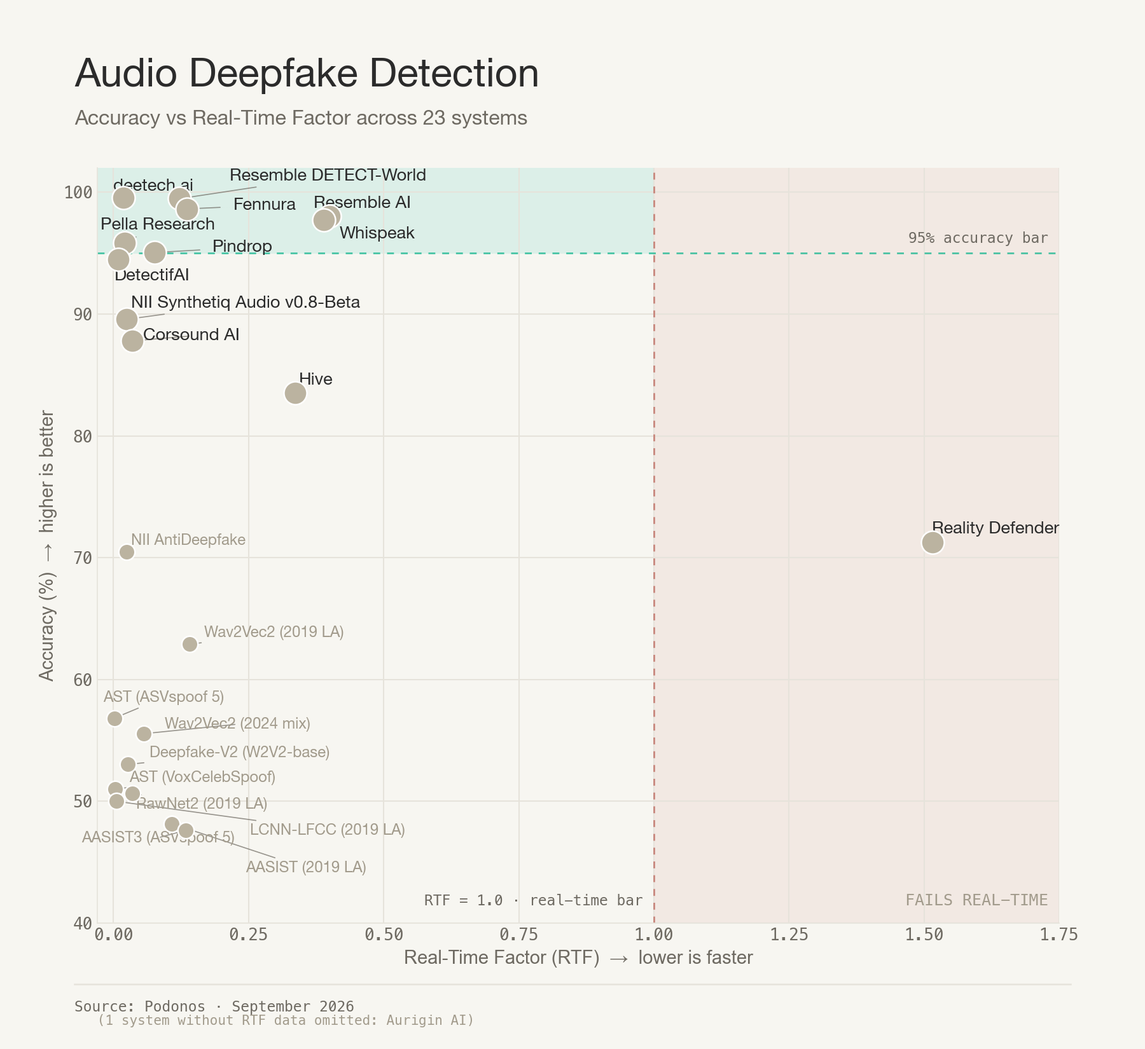
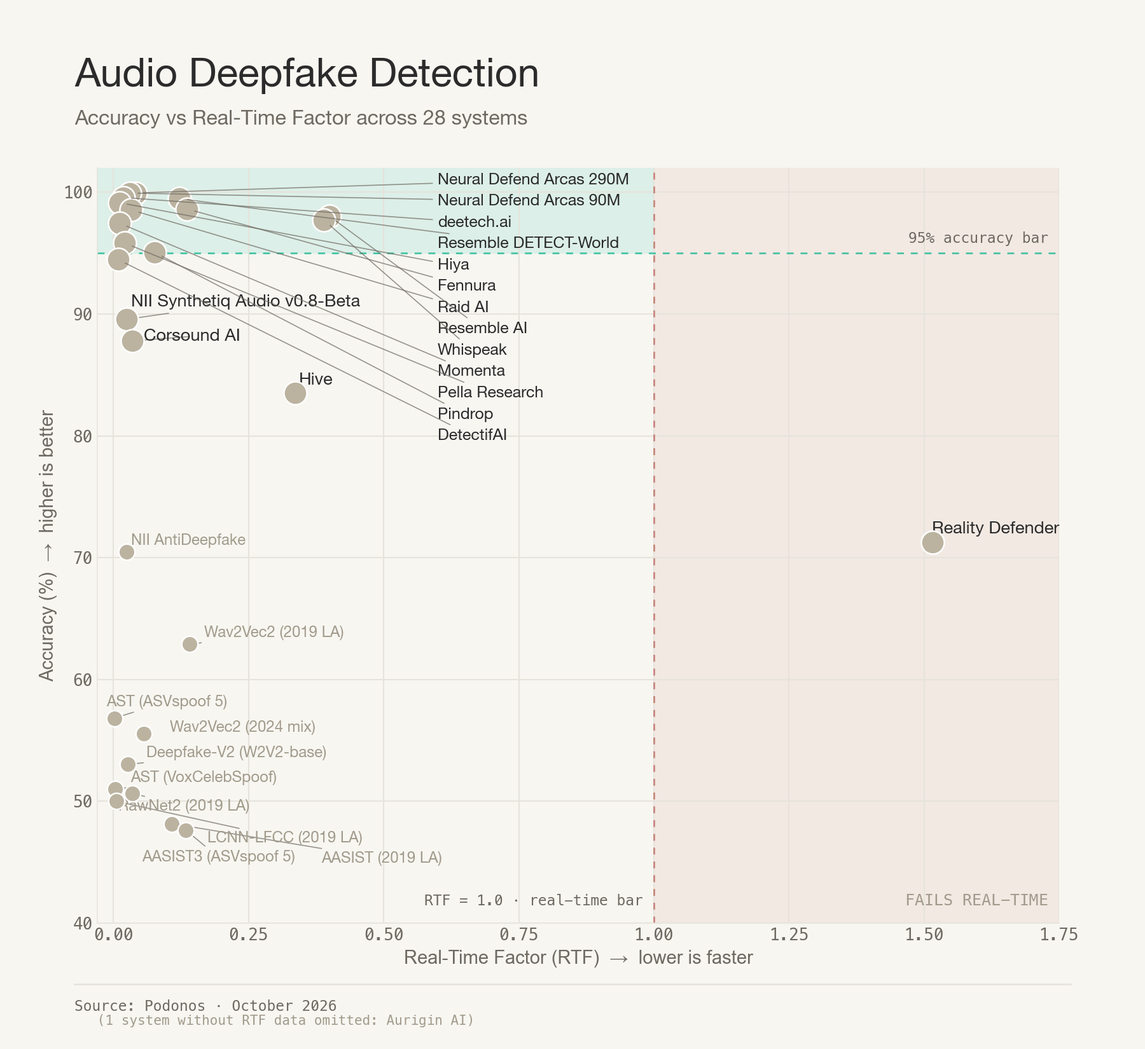
Add Neural Defend, Hiya, Raid AI and Momenta; state the submission rules
Five studio-track rows, each published only after the vendor confirmed in
writing: Neural Defend Arcas 290M and Arcas 90M (99.93% each, ranks 1 and
2), Hiya (99.14%, 2.3% of files rejected), Raid AI (98.54%) and Momenta
(97.46%; studio only, its wideband result stays private). The board grows
from 23 to 28 systems, and the counts, superlatives and row references in
the text are updated to match.

The submission rules are now written down: the board updates monthly,
CSVs are due by the 20th, filename, label and latency_ms are required on
every row, one model per team per month, and listing is opt-in (each
vendor sees its result first and may decline). Submissions go to
dfd-submission@podonos.com. The telephony leaderboards are planned for
the November 2026 update.

The accuracy-vs-RTF chart now lists its crowded fast, accurate corner in
a fixed label column, as the error-profile chart already does.

Verified: 28 rows against benchmark_summary.csv, 0 mismatches; leak
guard clean (8 withheld systems, none in the public tree); no em-dashes
left in README.md or DATASET.md.

Changed region(s): [[0.0933, 0.1545, 0.56, 0.4327], [0.0622, 0.6491, 0.3733, 0.8345], [0.2178, 0.9582, 0.2489, 0.9891]]

diff --git a/scripts/compute_metrics.py b/scripts/compute_metrics.py
@@ -17,8 +17,9 @@ ALL_MODELS = [
     "aasist_asvspoof5", "ast_asvspoof5", "ast_voxcelebspoof",
     "wav2vec2_garystafford", "melodymachine_v2",
     # Commercial APIs and commercially licensed systems
-    "deetech", "resemble_detect_world", "fennura", "aurigin_v2", "resemble",
-    "whispeak", "pella_research", "pindrop", "detectifai", "nii_synthetiq",
+    "neuraldefend_arcas_290m", "neuraldefend_arcas_90m", "deetech",
+    "resemble_detect_world", "hiya", "fennura", "raid_ai", "aurigin_v2", "resemble",
+    "whispeak", "momenta", "pella_research", "pindrop", "detectifai", "nii_synthetiq",
     "corsound", "hive", "reality_defender",
     # Open weights, submitted by its authors
     "nii_antideepfake",

diff --git a/README.md b/README.md
@@ -4,41 +4,48 @@
 
 A neutral, public benchmark for evaluating audio deepfake detection systems on a diverse, format-rich dataset.
 
-> **Why this benchmark?** Self-reported deepfake detection scores are often unreliable due to overfitting on public test sets and selective reporting. This project hosts a fixed evaluation set with **private gold-standard labels** held by Podonos, scoring submissions in a verifiable, apples-to-apples manner.
+> **Why this benchmark?** Self-reported deepfake detection scores are often unreliable due to overfitting on public test sets. This project hosts a fixed evaluation set with **private gold-standard labels** held by Podonos, scoring submissions in a verifiable, apples-to-apples manner.
 
 ---
 
 ## Leaderboard
 
+Last updated: **October 2026**. Updated monthly.
+
 ![Leaderboard: Accuracy](images/leaderboard_accuracy.png)
 
-**23 systems** published: 13 commercial entries (**bold**) from 12 vendors, since Resemble appears twice, and 11 systems whose weights you can download (Pella Research is counted in both), sorted by accuracy. **Pella Research** is a commercial provider that also open-sourced its model (MIT), so it appears among the commercial entries while its weights stay downloadable. **NII** appears twice for two separate systems: Synthetiq Audio is licensed commercially, AntiDeepfake is an open-weights research release.
+**28 systems** published: 18 commercial entries (**bold**) from 16 vendors, since Resemble and Neural Defend each appear twice, and 11 systems whose weights you can download (Pella Research is counted in both), sorted by accuracy. **Pella Research** is a commercial provider that also open-sourced its model (MIT), so it appears among the commercial entries while its weights stay downloadable. **NII** appears twice for two separate systems: Synthetiq Audio is licensed commercially, AntiDeepfake is an open-weights research release.
 
 | # | System | N | Rej% | Acc% | F1 | FPR% | FNR% | Lat(ms) | RTF |
 |---|--------|---|------|------|-----|------|------|---------|-----|
-| 1 | **[deetech.ai](https://deetech.ai)** | 4524 | 0.0% | **99.56%** | 0.996 | 0.4% | 0.4% | 50 | 0.019 |
-| 2 | **[Resemble DETECT-World](https://www.resemble.ai)** | 4524 | 0.0% | 99.47% | 0.995 | 0.7% | 0.4% | 399 | 0.12 |
-| 3 | **[Fennura](https://fennura.ai)** | 4524 | 0.0% | 98.63% | 0.986 | 1.2% | 1.5% | 553 | 0.14 |
-| 4 | **[Aurigin AI](https://aurigin.ai)** § | 4524 | 0.0% | 98.21% | 0.982 | 2.4% | 1.1% | n/a | n/a |
-| 5 | **[Resemble AI](https://www.resemble.ai)** ‡ | 4524 | 0.0% | 98.05% | 0.981 | 2.5% | 1.4% | 1,164 | 0.40 |
-| 6 | **[Whispeak](https://whispeak.io)** | 4524 | 0.0% | 97.70% | 0.977 | 2.9% | 1.7% | 1,052 | 0.39 |
-| 7 | **[Pella Research](https://pellaresearch.com)** † | 4524 | 0.0% | 95.82% | 0.959 | 5.5% | 2.8% | 57 | 0.021 |
-| 8 | **[Pindrop](https://www.pindrop.com)** | 4524 | 0.0% | 95.05% | 0.951 | 6.2% | 3.7% | 282 | 0.076 |
-| 9 | **[DetectifAI](https://detectif.ai)** | 4524 | 0.0% | 94.47% | 0.946 | 8.4% | 2.7% | 24 | 0.0084 |
-| 10 | **[NII Synthetiq Audio v0.8-Beta](https://yamagishilab.jp)** | 4524 | 0.0% | 89.57% | 0.892 | 6.6% | 14.2% | 91 | 0.024 |
-| 11 | **[Corsound AI](https://www.corsound.ai)** | 3875 | 14.3% | 87.79% | 0.865 | 1.0% | 23.1% | 180 | 0.035 |
-| 12 | **[Hive](https://thehive.ai)** ‡ | 4524 | 0.0% | 83.53% | 0.808 | 2.4% | 30.5% | 881 | 0.34 |
-| 13 | **[Reality Defender](https://www.realitydefender.com)** ‡ | 3745 | 17.2% | 71.27% | 0.770 | 53.7% | 3.6% | 5,718 | 1.52 |
-| 14 | [NII AntiDeepfake](https://huggingface.co/nii-yamagishilab/xls-r-2b-anti-deepfake) † | 4524 | 0.0% | 70.47% | 0.584 | 0.4% | 58.6% | 91 | 0.024 |
-| 15 | [Wav2Vec2 (2019 LA)](https://huggingface.co/Gustking/wav2vec2-large-xlsr-deepfake-audio-classification) | 4524 | 0.0% | 62.89% | 0.514 | 13.4% | 60.8% | 622 | 0.14 |
-| 16 | [AST (ASVspoof 5)](https://huggingface.co/MattyB95/AST-ASVspoof5-Synthetic-Voice-Detection) | 4524 | 0.0% | 56.83% | 0.657 | 69.0% | 17.4% | 5 | 0.0017 |
-| 17 | [Wav2Vec2 (2024 mix)](https://huggingface.co/garystafford/wav2vec2-deepfake-voice-detector) | 4524 | 0.0% | 55.55% | 0.499 | 33.1% | 55.8% | 219 | 0.056 |
-| 18 | [Deepfake-V2 (W2V2-base)](https://huggingface.co/MelodyMachine/Deepfake-audio-detection-V2) | 4524 | 0.0% | 53.03% | 0.162 | 3.1% | 90.9% | 94 | 0.027 |
-| 19 | [AST (VoxCelebSpoof)](https://huggingface.co/MattyB95/AST-VoxCelebSpoof-Synthetic-Voice-Detection) | 4524 | 0.0% | 50.99% | 0.048 | 0.5% | 97.5% | 8 | 0.0030 |
-| 20 | [RawNet2 (2019 LA)](https://huggingface.co/MattyB95/pre_trained_DF_RawNet2) | 4524 | 0.0% | 50.66% | 0.430 | 35.9% | 62.7% | 94 | 0.035 |
-| 21 | [LCNN-LFCC (2019 LA)](https://huggingface.co/MattyB95/pre_trained_DF_LFCC-LCNN) | 4524 | 0.0% | 50.00% | 0.667 | 100.0% | 0.0% | 23 | 0.0056 |
-| 22 | [AASIST (2019 LA)](https://github.com/clovaai/aasist) | 4524 | 0.0% | 48.17% | 0.486 | 52.6% | 51.1% | 322 | 0.11 |
-| 23 | [AASIST3 (ASVspoof 5)](https://huggingface.co/lab260/AASIST3) | 4524 | 0.0% | 47.63% | 0.029 | 6.3% | 98.4% | 363 | 0.13 |
+| 1 | **[Neural Defend Arcas 290M](https://neuraldefend.com)** | 4524 | 0.0% | **99.93%** | 0.999 | 0.1% | 0.0% | 118 | 0.041 |
+| 2 | **[Neural Defend Arcas 90M](https://neuraldefend.com)** | 4524 | 0.0% | **99.93%** | 0.999 | 0.1% | 0.0% | 89 | 0.030 |
+| 3 | **[deetech.ai](https://deetech.ai)** | 4524 | 0.0% | 99.56% | 0.996 | 0.4% | 0.4% | 50 | 0.019 |
+| 4 | **[Resemble DETECT-World](https://www.resemble.ai)** | 4524 | 0.0% | 99.47% | 0.995 | 0.7% | 0.4% | 399 | 0.12 |
+| 5 | **[Hiya](https://www.hiya.com)** | 4420 | 2.3% | 99.14% | 0.991 | 0.5% | 1.2% | 31 | 0.011 |
+| 6 | **[Fennura](https://fennura.ai)** | 4524 | 0.0% | 98.63% | 0.986 | 1.2% | 1.5% | 553 | 0.14 |
+| 7 | **[Raid AI](https://raidxai.com)** | 4524 | 0.0% | 98.54% | 0.985 | 1.9% | 1.0% | 93 | 0.033 |
+| 8 | **[Aurigin AI](https://aurigin.ai)** § | 4524 | 0.0% | 98.21% | 0.982 | 2.4% | 1.1% | n/a | n/a |
+| 9 | **[Resemble AI](https://www.resemble.ai)** ‡ | 4524 | 0.0% | 98.05% | 0.981 | 2.5% | 1.4% | 1,164 | 0.40 |
+| 10 | **[Whispeak](https://whispeak.io)** | 4524 | 0.0% | 97.70% | 0.977 | 2.9% | 1.7% | 1,052 | 0.39 |
+| 11 | **[Momenta](https://momenta.network)** | 4524 | 0.0% | 97.46% | 0.975 | 2.3% | 2.8% | 42 | 0.011 |
+| 12 | **[Pella Research](https://pellaresearch.com)** † | 4524 | 0.0% | 95.82% | 0.959 | 5.5% | 2.8% | 57 | 0.021 |
+| 13 | **[Pindrop](https://www.pindrop.com)** | 4524 | 0.0% | 95.05% | 0.951 | 6.2% | 3.7% | 282 | 0.076 |
+| 14 | **[DetectifAI](https://detectif.ai)** | 4524 | 0.0% | 94.47% | 0.946 | 8.4% | 2.7% | 24 | 0.0084 |
+| 15 | **[NII Synthetiq Audio v0.8-Beta](https://yamagishilab.jp)** | 4524 | 0.0% | 89.57% | 0.892 | 6.6% | 14.2% | 91 | 0.024 |
+| 16 | **[Corsound AI](https://www.corsound.ai)** | 3875 | 14.3% | 87.79% | 0.865 | 1.0% | 23.1% | 180 | 0.035 |
+| 17 | **[Hive](https://thehive.ai)** ‡ | 4524 | 0.0% | 83.53% | 0.808 | 2.4% | 30.5% | 881 | 0.34 |
+| 18 | **[Reality Defender](https://www.realitydefender.com)** ‡ | 3745 | 17.2% | 71.27% | 0.770 | 53.7% | 3.6% | 5,718 | 1.52 |
+| 19 | [NII AntiDeepfake](https://huggingface.co/nii-yamagishilab/xls-r-2b-anti-deepfake) † | 4524 | 0.0% | 70.47% | 0.584 | 0.4% | 58.6% | 91 | 0.024 |
+| 20 | [Wav2Vec2 (2019 LA)](https://huggingface.co/Gustking/wav2vec2-large-xlsr-deepfake-audio-classification) | 4524 | 0.0% | 62.89% | 0.514 | 13.4% | 60.8% | 622 | 0.14 |
+| 21 | [AST (ASVspoof 5)](https://huggingface.co/MattyB95/AST-ASVspoof5-Synthetic-Voice-Detection) | 4524 | 0.0% | 56.83% | 0.657 | 69.0% | 17.4% | 5 | 0.0017 |
+| 22 | [Wav2Vec2 (2024 mix)](https://huggingface.co/garystafford/wav2vec2-deepfake-voice-detector) | 4524 | 0.0% | 55.55% | 0.499 | 33.1% | 55.8% | 219 | 0.056 |
+| 23 | [Deepfake-V2 (W2V2-base)](https://huggingface.co/MelodyMachine/Deepfake-audio-detection-V2) | 4524 | 0.0% | 53.03% | 0.162 | 3.1% | 90.9% | 94 | 0.027 |
+| 24 | [AST (VoxCelebSpoof)](https://huggingface.co/MattyB95/AST-VoxCelebSpoof-Synthetic-Voice-Detection) | 4524 | 0.0% | 50.99% | 0.048 | 0.5% | 97.5% | 8 | 0.0030 |
+| 25 | [RawNet2 (2019 LA)](https://huggingface.co/MattyB95/pre_trained_DF_RawNet2) | 4524 | 0.0% | 50.66% | 0.430 | 35.9% | 62.7% | 94 | 0.035 |
+| 26 | [LCNN-LFCC (2019 LA)](https://huggingface.co/MattyB95/pre_trained_DF_LFCC-LCNN) | 4524 | 0.0% | 50.00% | 0.667 | 100.0% | 0.0% | 23 | 0.0056 |
+| 27 | [AASIST (2019 LA)](https://github.com/clovaai/aasist) | 4524 | 0.0% | 48.17% | 0.486 | 52.6% | 51.1% | 322 | 0.11 |
+| 28 | [AASIST3 (ASVspoof 5)](https://huggingface.co/lab260/AASIST3) | 4524 | 0.0% | 47.63% | 0.029 | 6.3% | 98.4% | 363 | 0.13 |
 
 **Legend**:
 - **N**: number of evaluated audio files
@@ -55,6 +62,8 @@ A neutral, public benchmark for evaluating audio deepfake detection systems on a
 > **What is and isn't verified.** Podonos holds the gold labels privately and computes Acc%, F1, FPR% and FNR% itself, so **no vendor scores its own row** and the arithmetic behind every row is ours. What we cannot check is how a submitted `predictions.csv` was produced: except for the ‡ rows, we did not run the system, so the labels in the file are taken on trust.
 >
 > **The speed columns are not.** They mix three regimes: ‡ rows were run by Podonos against the vendor's API and include network round-trip, other commercial rows are the vendor's own figures on the vendor's own hardware, and the open-source baselines were run locally by Podonos. Treat Lat(ms) and RTF as indicative, and don't read small differences as meaningful.
+>
+> **Listing is opt-in.** Each vendor sees its result before it is published and may decline, and we respect that. A system missing from this board may have been scored and withheld.
 
 ### Open-weights leaderboard
 
@@ -80,13 +89,13 @@ The 95.82 % figure was produced by the public `pellav2` checkpoint, confirmed by
 
 ### Observations
 
-**Commercial systems.** Eight clear 95 %. Pick by which error costs you more.
+**Commercial systems.** Thirteen clear 95 %. Pick by which error costs you more.
 
-- **The top is tight.** deetech.ai, DETECT-World and Fennura are separated by under a point and all three hold both error rates under 1.6 %. deetech.ai is the most even across containers at 99.5–99.7 % on every format, with DETECT-World just behind at 99.2–99.7 %.
+- **The top is tight.** Neural Defend's Arcas 290M and 90M lead at 99.93 %, three errors each in 4,524 files. deetech.ai and DETECT-World follow within half a point.
 - **Fennura is submitted as a CPU-only, on-device detector**, with no GPU at inference. That is the vendor's description; Podonos scored the labels but did not run the system and cannot attest to the hardware.
 - **Conservative by design:** Corsound and Hive rarely false-flag but miss 23.1 % and 30.5 % of the fakes they score. Both are the shape you want when a false accusation is the expensive error.
-- **Reality Defender false-flags 53.7 % of the real audio it accepted** — 1,009 of 1,878 clips. It declined a further 384 real clips, so that is 44.6 % of all the real audio in the set. Its RTF of 1.52 is the only measured value above 1.0.
-- **Coverage is not uniform.** Corsound declines 14.3 % of files and Reality Defender 17.2 %, mostly clips under ~1.5 s, so those two rows are scored on a different subset from the rest and are not directly comparable to a full-coverage row.
+- **Reality Defender false-flags 53.7 % of the real audio it accepted** (1,009 of 1,878 clips). It declined a further 384 real clips, so that is 44.6 % of all the real audio in the set. Its RTF of 1.52 is the only measured value above 1.0.
+- **Coverage is not uniform.** Corsound declines 14.3 % of files, Reality Defender 17.2 % and Hiya 2.3 %, mostly clips under ~1.5 s, so those rows are scored on a different subset from the rest and are not directly comparable to a full-coverage row.
 - **NII Synthetiq Audio** is licensed commercially by the Yamagishi Lab at NII rather than sold as a public API; its latency was measured by the lab on an H100.
 
 Two caveats change how a row should be read:
@@ -98,7 +107,7 @@ Two caveats change how a row should be read:
 
 **Stale training data is the problem, not open weights.** The two open-weights models trained on current synthesis both clear that band: [pellav2](#open-weights-leaderboard) and [NII AntiDeepfake](#open-weights-leaderboard). AntiDeepfake pairs one of the lowest false-positive rates on the board, 0.4 %, with an FNR of 58.6 %: it almost never false-flags real audio and misses close to 6 fakes in 10. That reads as a deliberate operating point rather than a failure to train.
 
-**Latency / RTF.** Mixed provenance, not measured on common hardware, so treat small differences as noise. Of the 22 systems with a measured RTF, all run faster than real time except Reality Defender; Aurigin AI submitted no timing data, so it has none. Several open-source models are faster still, AST at ~5 ms, but they run locally with no network hop, and at near-random accuracy that speed buys little.
+**Latency / RTF.** Mixed provenance, not measured on common hardware, so treat small differences as noise. Of the 27 systems with a measured RTF, all run faster than real time except Reality Defender; Aurigin AI submitted no timing data, so it has none. Several open-source models are faster still, AST at ~5 ms, but they run locally with no network hop, and at near-random accuracy that speed buys little.
 
 ### Error Profile
 
@@ -118,7 +127,7 @@ Two caveats change how a row should be read:
   - [VCTK](https://datashare.ed.ac.uk/handle/10283/3443): 110 English speakers, multiple accents
   - [LJ Speech](https://keithito.com/LJ-Speech-Dataset/): single-speaker, ~24 hours of public-domain audiobook recordings
   - [LibriTTS train-clean-360](https://www.openslr.org/60/): ~191 hours, 904 speakers (the "360" names the LibriSpeech split it was rebuilt from, not its duration)
-- **Synthetic audio**: ~25 TTS / voice-cloning systems, both commercial APIs and open-weights models run locally, including [ElevenLabs](https://elevenlabs.io/) (commercial API), [Chatterbox](https://github.com/resemble-ai/chatterbox) and [F5-TTS](https://github.com/SWivid/F5-TTS) (open weights), and others. Chatterbox is released by Resemble AI, which also appears on the leaderboard at rows 2 and 5.
+- **Synthetic audio**: ~25 TTS / voice-cloning systems, both commercial APIs and open-weights models run locally, including [ElevenLabs](https://elevenlabs.io/) (commercial API), [Chatterbox](https://github.com/resemble-ai/chatterbox) and [F5-TTS](https://github.com/SWivid/F5-TTS) (open weights), and others. Chatterbox is released by Resemble AI, which also appears on the leaderboard at rows 4 and 9.
 - **Quality verification**: All synthetic audio is round-trip transcribed with [OpenAI Whisper](https://github.com/openai/whisper) to ensure the TTS system synthesized the intended utterance, before format conversion.
 
 See [`DATASET.md`](DATASET.md) for full construction details.
@@ -163,7 +172,7 @@ In both tracks the PESQ ordering is the expected one (higher bitrate and newer c
 
 ### Submit your results
 
-Run your detector over a track's folder (filenames are `0.wav`, `1.wav`, ...) and submit a `predictions.csv` as described in [Submission Format](#submission-format) below. Each track is scored against its own private gold standard. The telephony leaderboards open as submissions arrive; the studio leaderboard above is already live.
+Run your detector over a track's folder (filenames are `0.wav`, `1.wav`, ...) and submit a `predictions.csv` as described in [Submission Format](#submission-format) below. Each track is scored against its own private gold standard. The telephony leaderboards are planned for the November 2026 update; the studio leaderboard above is already live.
 
 ---
 
@@ -221,7 +230,7 @@ python scripts/compute_metrics.py
 
 Outputs the per-model breakdown including per-format accuracy and the leaderboard.
 
-> **Note**: Computing metrics requires the gold-standard labels CSV. The labels are kept private to maintain the benchmark's integrity. Email your `predictions.csv` to **hello@podonos.com** for scoring.
+> **Note**: Computing metrics requires the gold-standard labels CSV. The labels are kept private to maintain the benchmark's integrity. Email your `predictions.csv` to **dfd-submission@podonos.com** for scoring.
 
 ---
 
@@ -229,23 +238,28 @@ Outputs the per-model breakdown including per-format accuracy and the leaderboar
 
 ### Commercial APIs
 
-These 13 entries come from 12 vendors, since Resemble appears twice. All offer a hosted detection API or a commercial licence; **Pella Research** additionally publishes its weights under MIT, and the **NII** Yamagishi Lab separately publishes the open-weights AntiDeepfake model, listed under [Open-source baselines](#open-source-baselines).
+These 18 entries come from 16 vendors, since Resemble and Neural Defend each appear twice. All offer a hosted detection API or a commercial licence; **Pella Research** additionally publishes its weights under MIT, and the **NII** Yamagishi Lab separately publishes the open-weights AntiDeepfake model, listed under [Open-source baselines](#open-source-baselines).
 
 | Row | Vendor | Product / Model | Docs / Product page |
 |----:|--------|-----------------|---------------------|
-| 1 | [**deetech.ai**](https://deetech.ai) | Audio deepfake detector (v2), also offered as [deetech.au](https://deetech.au) | https://deetech.ai |
-| 2 | [**Resemble AI**](https://www.resemble.ai) | DETECT-World | https://docs.resemble.ai/detect |
-| 3 | [**Fennura**](https://fennura.ai) | On-device detector, CPU-only inference | https://fennura.ai |
-| 4 | [**Aurigin AI**](https://aurigin.ai) | Apollo deepfake detection | https://docs.aurigin.ai |
-| 5 | [**Resemble AI**](https://www.resemble.ai) | DETECT-3B Omni, the previous generation | https://docs.resemble.ai/detect |
-| 6 | [**Whispeak**](https://whispeak.io) | Voice Biometric Authentication (anti-spoofing) | https://whispeak.io/voice-authentication/ |
-| 7 | [**Pella Research**](https://pellaresearch.com) | pellav2, hosted API + open weights (MIT) | https://pellaresearch.com · [weights](https://huggingface.co/Sadanie/pellav2-audio-deepfake-detector) |
-| 8 | [**Pindrop**](https://www.pindrop.com) | Pindrop Pulse | https://www.pindrop.com/product/pindrop-pulse/ |
-| 9 | [**DetectifAI**](https://detectif.ai) | Real-time audio deepfake detection | https://detectif.ai |
-| 10 | [**NII Yamagishi Lab**](https://yamagishilab.jp) | Synthetiq Audio v0.8-Beta, commercial licence | https://yamagishilab.jp |
-| 11 | [**Corsound AI**](https://www.corsound.ai) | Deepfake Detect | https://apis.corsound.ai/ |
-| 12 | [**Hive**](https://thehive.ai) | AI-generated audio detection | https://docs.thehive.ai/docs/ai-generated-audio-detection |
-| 13 | [**Reality Defender**](https://www.realitydefender.com) | RealAPI | https://docs.realitydefender.com |
+| 1 | [**Neural Defend**](https://neuraldefend.com) | Arcas 290M audio deepfake foundation model | https://neuraldefend.com |
+| 2 | [**Neural Defend**](https://neuraldefend.com) | Arcas 90M audio deepfake foundation model | https://neuraldefend.com |
+| 3 | [**deetech.ai**](https://deetech.ai) | Audio deepfake detector (v2), also offered as [deetech.au](https://deetech.au) | https://deetech.ai |
+| 4 | [**Resemble AI**](https://www.resemble.ai) | DETECT-World | https://docs.resemble.ai/detect |
+| 5 | [**Hiya**](https://www.hiya.com) | Synthetic voice detection | https://www.hiya.com |
+| 6 | [**Fennura**](https://fennura.ai) | On-device detector, CPU-only inference | https://fennura.ai |
+| 7 | [**Raid AI**](https://raidxai.com) | Audio deepfake detector | https://raidxai.com |
+| 8 | [**Aurigin AI**](https://aurigin.ai) | Apollo deepfake detection | https://docs.aurigin.ai |
+| 9 | [**Resemble AI**](https://www.resemble.ai) | DETECT-3B Omni, the previous generation | https://docs.resemble.ai/detect |
+| 10 | [**Whispeak**](https://whispeak.io) | Voice Biometric Authentication (anti-spoofing) | https://whispeak.io/voice-authentication/ |
+| 11 | [**Momenta**](https://momenta.network) | Audio deepfake detection | https://momenta.network |
+| 12 | [**Pella Research**](https://pellaresearch.com) | pellav2, hosted API + open weights (MIT) | https://pellaresearch.com · [weights](https://huggingface.co/Sadanie/pellav2-audio-deepfake-detector) |
+| 13 | [**Pindrop**](https://www.pindrop.com) | Pindrop Pulse | https://www.pindrop.com/product/pindrop-pulse/ |
+| 14 | [**DetectifAI**](https://detectif.ai) | Real-time audio deepfake detection | https://detectif.ai |
+| 15 | [**NII Yamagishi Lab**](https://yamagishilab.jp) | Synthetiq Audio v0.8-Beta, commercial licence | https://yamagishilab.jp |
+| 16 | [**Corsound AI**](https://www.corsound.ai) | Deepfake Detect | https://apis.corsound.ai/ |
+| 17 | [**Hive**](https://thehive.ai) | AI-generated audio detection | https://docs.thehive.ai/docs/ai-generated-audio-detection |
+| 18 | [**Reality Defender**](https://www.realitydefender.com) | RealAPI | https://docs.realitydefender.com |
 
 ### Open-source baselines
 
@@ -299,7 +313,7 @@ filename,label,latency_ms,audio_duration_sec
 ...
 ```
 
-Labels must be exactly `real` or `fake` (lowercase). If your system declines a file, write `NOT_APPLICABLE`; if it errors, write `error`. Both are excluded from scoring and counted in **Rej%**. `latency_ms` gives the **Lat(ms)** column and `audio_duration_sec` is required for **RTF**; leave either blank if you cannot measure it, and that column is reported as N/A.
+Labels must be exactly `real` or `fake` (lowercase). If your system declines a file, write `NOT_APPLICABLE`; if it errors, write `error`. Both are excluded from scoring and counted in **Rej%**. `filename`, `label` and `latency_ms` are required on every row. `latency_ms` gives the **Lat(ms)** column and `audio_duration_sec` gives **RTF**.
 
 Submit one CSV per dataset:
 - **Studio track:** run over `dataset/`; filenames keep their original extension (e.g. `0.flac`).
@@ -308,7 +322,14 @@ Submit one CSV per dataset:
 
 The two telephony tracks use `0.wav`-style filenames; the studio track keeps each file's original extension. All three are **independently shuffled**, so a prediction file for one track will not score on another.
 
-Email your `predictions.csv` to **hello@podonos.com** for scoring against the private gold standard.
+### Notes
+
+- The leaderboard is updated by the end of each month.
+- Submit your CSV files by the 20th of the month.
+- Every row must have `filename`, `label` and `latency_ms`. A file with any of them blank is not accepted.
+- One submission per company/team per month: one model, one CSV per track. We don't score multiple checkpoints or hyperparameter settings to find your best one.
+- Once we internally update the leaderboard, we share your results with you first, and you decide whether they go on the leaderboard. If you decline, they stay private.
+- If your submission is missing, please contact us.
 
 ---
 

diff --git a/DATASET.md b/DATASET.md
@@ -21,9 +21,9 @@ The benchmark dataset contains **4,524 audio files** for binary classification (
 
 The bonafide speech recordings are drawn from three established public corpora:
 
-1. **VCTK Corpus** — 110 English speakers, multiple accents (https://datashare.ed.ac.uk/handle/10283/3443).
-2. **LJSPEECH** — single-speaker dataset of 13,100 short audio clips of a single speaker reading non-fiction passages (https://keithito.com/LJ-Speech-Dataset/).
-3. **LibriTTS train-clean-360** — ~191 hours, 904 English speakers; the "360" names the LibriSpeech split it was rebuilt from, not its duration (https://www.openslr.org/60/).
+1. **VCTK Corpus**: 110 English speakers, multiple accents (https://datashare.ed.ac.uk/handle/10283/3443).
+2. **LJSPEECH**: single-speaker dataset of 13,100 short audio clips of a single speaker reading non-fiction passages (https://keithito.com/LJ-Speech-Dataset/).
+3. **LibriTTS train-clean-360**: ~191 hours, 904 English speakers; the "360" names the LibriSpeech split it was rebuilt from, not its duration (https://www.openslr.org/60/).
 
 ## Fake (AI-Generated) Audio Sources
 
@@ -81,18 +81,18 @@ Each track keeps the 50/50 class balance and the same hidden labels as the studi
 
 ## Gold Standard Labels
 
-The ground-truth labels (`labels_speech.csv`) are **NOT included in this public release** to prevent overfitting and to maintain the benchmark's role as an independent evaluation set. Email your `predictions.csv` to **hello@podonos.com** to be scored against the private gold standard.
+The ground-truth labels (`labels_speech.csv`) are **NOT included in this public release** to prevent overfitting and to maintain the benchmark's role as an independent evaluation set. Email your `predictions.csv` to **dfd-submission@podonos.com** to be scored against the private gold standard.
 
 ## Submission Format
 
-Produce a `predictions.csv` with three columns: `filename`, `label`, and `latency_ms` (mean per-file inference time in milliseconds):
+Produce a `predictions.csv` with four columns: `filename`, `label`, `latency_ms` (per-file inference time in milliseconds) and `audio_duration_sec`:
 
 ```csv
-filename,label,latency_ms
-0.flac,real,247.09
-1.webm,fake,493.58
-2.mp3,real,289.01
+filename,label,latency_ms,audio_duration_sec
+0.flac,real,247.09,1.5325
+1.webm,fake,493.58,8.2336
+2.mp3,real,289.01,3.4410
 ...
 ```
 
-Labels must be exactly `real` or `fake` (lowercase). `latency_ms` is used to report the leaderboard's Lat(ms) / RTF columns; leave it blank if you cannot measure it. Email your `predictions.csv` to **hello@podonos.com**.
+`filename`, `label` and `latency_ms` are required on every row. Full rules and the monthly schedule are in the README's [Submission Format](README.md#submission-format). Email your `predictions.csv` to **dfd-submission@podonos.com**.
